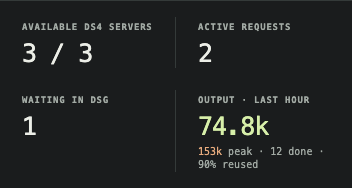
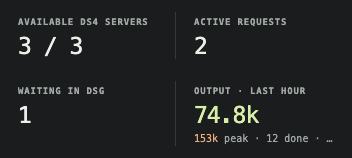
Compact fleet status and add Settings view

diff --git a/ds4-gateway/ui/index.html b/ds4-gateway/ui/index.html
@@ -4,7 +4,7 @@
 <link rel="stylesheet" href="/ui.css"><link rel="stylesheet" href="/brand.css"><script type="module" src="/ui.js"></script></head>
 <body><main>
 <header><a class="brand" href="/" aria-label="Dwarf Star Gate control room"><span class="brand-mark">[dsg]</span><span class="muted"> / control room</span></a><div class="header-right"><span id="connection" class="connection">Connecting</span><a class="button" href="/api/diagnostics" download>↓ Debug snapshot</a></div></header>
-<section class="intro"><img class="gate-art" src="/logo.png" width="148" height="111" alt="Dwarf Star Gate logo"><div class="intro-copy"><h1>Dwarf Star Gate</h1><p id="model" class="muted">DS4 gateway · reading live status</p><p class="engine-credit">Inference engine: <a href="https://github.com/antirez/ds4" target="_blank" rel="noopener noreferrer">DS4 by antirez</a>.</p></div><div class="read-only"><button id="server-settings" class="settings-button" type="button" title="Manage DS4 servers" aria-label="Manage DS4 servers" aria-controls="worker-management" aria-expanded="false" hidden><svg viewBox="0 0 24 24" aria-hidden="true"><path d="M9.6 2h4.8l.6 2.4 2.1 1.2 2.4-.7 2.4 4.2-1.8 1.7v2.4l1.8 1.7-2.4 4.2-2.4-.7-2.1 1.2-.6 2.4H9.6L9 19.6l-2.1-1.2-2.4.7-2.4-4.2 1.8-1.7v-2.4L2.1 9.1l2.4-4.2 2.4.7L9 4.4 9.6 2Zm2.4 6.5a3.5 3.5 0 1 0 0 7 3.5 3.5 0 0 0 0-7Z"/></svg></button><span id="control-mode">[ read only ]</span><br><small id="control-note">No model controls.</small></div></section>
+<section class="intro"><img class="gate-art" src="/logo.png" width="148" height="111" alt="Dwarf Star Gate logo"><div class="intro-copy"><h1>Dwarf Star Gate</h1><p id="model" class="muted">DS4 gateway · reading live status</p><p class="engine-credit">Inference engine: <a href="https://github.com/antirez/ds4" target="_blank" rel="noopener noreferrer">DS4 by antirez</a>.</p></div><div class="read-only"><span id="control-mode">[ read only ]</span><br><small id="control-note">No model controls.</small></div></section>
 <div id="warning" class="warning" role="status" hidden></div>
 <section id="health-wire" class="health-wire" aria-label="Gate Genie fleet health headlines" data-level="unknown">
 <div class="health-wire-window" tabindex="0" aria-label="Server health headlines; focus to pause scrolling" aria-live="off"><div id="health-wire-track" class="health-wire-track"><div id="health-wire-text" class="health-wire-group">Connecting to Gate Genie…</div><div id="health-wire-copy" class="health-wire-group" aria-hidden="true"></div></div></div>
@@ -16,6 +16,7 @@
 <button id="tab-genie" type="button" role="tab" aria-selected="false" aria-controls="view-genie" tabindex="-1" data-workspace-tab="genie">Gate Genie</button>
 <button id="tab-analytics" type="button" role="tab" aria-selected="false" aria-controls="view-analytics" tabindex="-1" data-workspace-tab="analytics">Analytics</button>
 <button id="tab-activity" type="button" role="tab" aria-selected="false" aria-controls="view-activity" tabindex="-1" data-workspace-tab="activity">Activity</button>
+<button id="tab-settings" class="settings-tab" type="button" role="tab" aria-selected="false" aria-controls="view-settings" tabindex="-1" data-workspace-tab="settings" hidden><svg viewBox="0 0 24 24" aria-hidden="true"><path d="M9.6 2h4.8l.6 2.4 2.1 1.2 2.4-.7 2.4 4.2-1.8 1.7v2.4l1.8 1.7-2.4 4.2-2.4-.7-2.1 1.2-.6 2.4H9.6L9 19.6l-2.1-1.2-2.4.7-2.4-4.2 1.8-1.7v-2.4L2.1 9.1l2.4-4.2 2.4.7L9 4.4 9.6 2Zm2.4 6.5a3.5 3.5 0 1 0 0 7 3.5 3.5 0 0 0 0-7Z"/></svg><span>Settings</span></button>
 </nav>
 <section id="view-fleet" class="workspace-view" role="tabpanel" aria-labelledby="tab-fleet" data-workspace-view="fleet">
 <section class="status-deck" aria-label="Fleet overview">
@@ -24,34 +25,6 @@
 <p id="fleet-summary" class="fleet-summary" role="status">Reading fleet state</p>
 </section>
 <div id="routing-summary" class="warning routing-summary" role="status" hidden></div>
-<details id="worker-management" class="worker-management worker-management-drawer" hidden><summary>Manage DS4 servers</summary>
-<p>Add an already-running DS4 server. Registration checks its model and context, then leaves it paused. Server context, cache slots and model settings are not changed.</p>
-<details id="spark-profile"><summary>Recommended DGX Spark configuration</summary><p>Experimental reference profile: Vision-Exp IQ2/Q2 with vision enabled, 262,144-token context, two hot sessions, one active request per Spark, a 349,525 MiB disk-KV budget and the full acceleration cache. Context includes prompt, reasoning and answer; disk retention is byte-based, not a fixed ten-slot guarantee.</p><p><a href="https://github.com/JordiPosthumus/dwarf-star-gate/blob/main/docs/recommended-spark-profile.md" target="_blank" rel="noopener noreferrer">Exact versions, launch command, validation procedure and known limits</a>. Remains our recommendation until explicitly superseded. This is guidance, not a reading of live settings; it does not change servers or apply to Macs.</p></details>
-<div id="worker-message" class="worker-message" role="status" aria-live="polite"></div>
-<form id="pool-context-form" class="worker-form" hidden>
-<label>Pool context limit (tokens)<input id="pool-context-input" name="context_length" type="number" min="1" step="1" required aria-describedby="pool-context-note"></label>
-<button class="button" type="submit">Apply pool limit</button>
-</form>
-<p id="pool-context-note" hidden>Checks every enabled server. Saved across gateway restarts and applied immediately; server settings and Pi are unchanged.</p>
-<form id="queue-timeout-form" class="worker-form" hidden>
-<label>Queue waiting allowance (hours)<input id="queue-timeout-input" type="number" min="1" step="1" required aria-describedby="queue-timeout-note"></label>
-<button class="button" type="submit">Save queue allowance</button>
-</form>
-<p id="queue-timeout-note" hidden><span id="queue-timeout-current"></span> Applies to newly arriving requests. Existing waits keep their admission-time deadline. Saved across restarts; no restart needed to change it. Active-generation timeout, DS4 and Pi settings are unchanged.</p>
-<div id="vision-protection-control" class="protection-control" hidden><div><strong>Image compatibility protection</strong><p id="vision-protection-status" class="muted">Checking availability</p></div><button id="vision-protection-toggle" class="button" type="button" disabled>Enable</button><p>After a proven pre-generation rejection, DSG gives the agent one compatible same-server recovery turn: it explains the exact image-limit or GIF problem and lets the agent choose what to do. DSG does not select frames or perform the task. Supported rejected JPEGs may be converted to PNG once; ambiguous failures are never replayed.</p></div>
-<div id="relocation-controls" hidden><strong>Safe queued handovers</strong><p class="muted">First DSG requests and unaffined work automatically take a newly free slot. Established sessions keep their warm home for the configured first-refusal window, then the gateway core may move the oldest continuity-safe queue head automatically. An exact offer here can move it sooner; destination cache locality may change.</p><div id="relocation-offers"></div></div>
-<div class="table-wrap"><table><thead><tr><th>DS4 server</th><th>Server context</th><th>Routing</th><th>Active / queued</th><th>Actions</th></tr></thead><tbody id="worker-rows"></tbody></table></div>
-<form id="worker-form" class="worker-form">
-<label>Server ID<input name="id" required maxlength="64" pattern="[a-zA-Z0-9][a-zA-Z0-9_-]*" placeholder="m2-max" autocomplete="off"></label>
-<label>Connection<select name="connection"><option value="local">Local server</option><option value="ssh">Remote server via SSH</option></select></label>
-<label><span id="endpoint-label">Local server URL</span><input name="url" type="url" required placeholder="http://127.0.0.1:8000" autocomplete="off"></label>
-<label id="ssh-host-field" hidden>SSH host / alias<input name="ssh" placeholder="ds4-worker" autocomplete="off" disabled></label>
-<label id="ssh-fallback-field" hidden>Fallback SSH aliases <span class="muted">(optional, comma-separated)</span><input name="ssh_fallbacks" placeholder="ds4-worker-lan, ds4-worker-tailnet" autocomplete="off" disabled></label>
-<label id="remote-port-field" hidden>Remote server port<input name="remote_port" type="number" min="1" max="65535" value="8000" disabled></label>
-<button class="button" type="submit">Check &amp; register</button>
-</form>
-<p>Remote connections use existing, host-key-verified SSH aliases and a free local tunnel port. Optional fallback aliases are tried in order when a route exits; DSG never accepts SSH options or shell commands here. Drain lets admitted requests finish. Remove is available only when paused and idle; it never stops the model server.</p>
-</details>
 <section class="section-heading"><h2>DS4 servers</h2><p>Decode + prefill, measured by each server</p></section><p id="routing-message" class="worker-message" role="status" aria-live="polite"></p><section id="devices" class="devices" aria-label="DS4 servers"><p class="muted">Reading server status. Engine timings appear when logs are available.</p></section>
 </section>
 <section id="view-genie" class="workspace-view" role="tabpanel" aria-labelledby="tab-genie" data-workspace-view="genie" hidden>
@@ -89,6 +62,22 @@
 <details class="cache-cost-panel"><summary>Client continuity · requests not dispatched</summary><p id="continuity-status" class="muted">Checking rejection evidence</p><div id="continuity-rejections"></div></details>
 <section class="section-heading activity-heading"><h2>Request log</h2><span><label>Show <select id="request-filter" title="Problems exclude completed and compatibility-guidance turns. Slow means over 5 minutes active or 1 minute queued."><option value="all">All recent</option><option value="problems">Problems only</option><option value="slow">Slow only</option></select></label> · no conversation text</span></section>
 <div class="table-wrap"><table><thead><tr><th>Time</th><th>DS4 server</th><th>Outcome</th><th>Elapsed</th><th>Queued</th><th>Prefix reused</th><th>Output tokens</th><th>Request</th></tr></thead><tbody id="requests"><tr><td colspan="8" class="muted">Waiting for request records</td></tr></tbody></table></div>
+</section>
+<section id="view-settings" class="workspace-view settings-view" role="tabpanel" aria-labelledby="tab-settings" data-workspace-view="settings" hidden>
+<section id="worker-management" class="worker-management" aria-labelledby="worker-management-title" hidden><h2 id="worker-management-title">Manage DS4 servers</h2>
+<p>Add an already-running DS4 server. Registration checks its model and context, then leaves it paused. Server context, cache slots and model settings are not changed.</p>
+<details id="spark-profile"><summary>Recommended DGX Spark configuration</summary><p>Experimental reference profile: Vision-Exp IQ2/Q2 with vision enabled, 262,144-token context, two hot sessions, one active request per Spark, a 349,525 MiB disk-KV budget and the full acceleration cache. Context includes prompt, reasoning and answer; disk retention is byte-based, not a fixed ten-slot guarantee.</p><p><a href="https://github.com/JordiPosthumus/dwarf-star-gate/blob/main/docs/recommended-spark-profile.md" target="_blank" rel="noopener noreferrer">Exact versions, launch command, validation procedure and known limits</a>. Remains our recommendation until explicitly superseded. This is guidance, not a reading of live settings; it does not change servers or apply to Macs.</p></details>
+<div id="worker-message" class="worker-message" role="status" aria-live="polite"></div>
+<form id="pool-context-form" class="worker-form" hidden><label>Pool context limit (tokens)<input id="pool-context-input" name="context_length" type="number" min="1" step="1" required aria-describedby="pool-context-note"></label><button class="button" type="submit">Apply pool limit</button></form>
+<p id="pool-context-note" hidden>Checks every enabled server. Saved across gateway restarts and applied immediately; server settings and Pi are unchanged.</p>
+<form id="queue-timeout-form" class="worker-form" hidden><label>Queue waiting allowance (hours)<input id="queue-timeout-input" type="number" min="1" step="1" required aria-describedby="queue-timeout-note"></label><button class="button" type="submit">Save queue allowance</button></form>
+<p id="queue-timeout-note" hidden><span id="queue-timeout-current"></span> Applies to newly arriving requests. Existing waits keep their admission-time deadline. Saved across restarts; no restart needed to change it. Active-generation timeout, DS4 and Pi settings are unchanged.</p>
+<div id="vision-protection-control" class="protection-control" hidden><div><strong>Image compatibility protection</strong><p id="vision-protection-status" class="muted">Checking availability</p></div><button id="vision-protection-toggle" class="button" type="button" disabled>Enable</button><p>After a proven pre-generation rejection, DSG gives the agent one compatible same-server recovery turn: it explains the exact image-limit or GIF problem and lets the agent choose what to do. DSG does not select frames or perform the task. Supported rejected JPEGs may be converted to PNG once; ambiguous failures are never replayed.</p></div>
+<div id="relocation-controls" hidden><strong>Safe queued handovers</strong><p class="muted">First DSG requests and unaffined work automatically take a newly free slot. Established sessions keep their warm home for the configured first-refusal window, then the gateway core may move the oldest continuity-safe queue head automatically. An exact offer here can move it sooner; destination cache locality may change.</p><div id="relocation-offers"></div></div>
+<div class="table-wrap"><table><thead><tr><th>DS4 server</th><th>Server context</th><th>Routing</th><th>Active / queued</th><th>Actions</th></tr></thead><tbody id="worker-rows"></tbody></table></div>
+<form id="worker-form" class="worker-form"><label>Server ID<input name="id" required maxlength="64" pattern="[a-zA-Z0-9][a-zA-Z0-9_-]*" placeholder="m2-max" autocomplete="off"></label><label>Connection<select name="connection"><option value="local">Local server</option><option value="ssh">Remote server via SSH</option></select></label><label><span id="endpoint-label">Local server URL</span><input name="url" type="url" required placeholder="http://127.0.0.1:8000" autocomplete="off"></label><label id="ssh-host-field" hidden>SSH host / alias<input name="ssh" placeholder="ds4-worker" autocomplete="off" disabled></label><label id="ssh-fallback-field" hidden>Fallback SSH aliases <span class="muted">(optional, comma-separated)</span><input name="ssh_fallbacks" placeholder="ds4-worker-lan, ds4-worker-tailnet" autocomplete="off" disabled></label><label id="remote-port-field" hidden>Remote server port<input name="remote_port" type="number" min="1" max="65535" value="8000" disabled></label><button class="button" type="submit">Check &amp; register</button></form>
+<p>Remote connections use existing, host-key-verified SSH aliases and a free local tunnel port. Optional fallback aliases are tried in order when a route exits; DSG never accepts SSH options or shell commands here. Drain lets admitted requests finish. Remove is available only when paused and idle; it never stops the model server.</p>
+</section>
 </section>
 <footer><p><span class="live-dot"></span> Local only · refreshes every 2s · no external assets</p><p id="updated">—</p></footer>
 <p class="upstream-credit">Original engine: <a href="https://github.com/antirez/ds4" target="_blank" rel="noopener noreferrer">antirez/ds4</a> by <a href="https://antirez.com/" target="_blank" rel="noopener noreferrer">Salvatore Sanfilippo</a> &amp; contributors. Thank you. <span>Independent companion; not an official release.</span></p>

diff --git a/ds4-gateway/ui/brand.css b/ds4-gateway/ui/brand.css
@@ -54,28 +54,26 @@ button:disabled{opacity:.4;cursor:default}input:focus-visible,select:focus-visib
 .routing-toggle:hover::after,.routing-toggle:focus-visible::after{opacity:1;visibility:visible;transform:translateY(0)}
 #routing-message:empty{display:none}
 
-/* Compact control-room hierarchy: one fleet panel, one obvious settings door. */
-.settings-button{display:inline-grid;place-items:center;width:42px;height:42px;margin-left:auto;padding:0;border:1px solid #526643;border-radius:6px;background:#202622;color:var(--accent);cursor:pointer}
-.settings-button[hidden]{display:none}.settings-button svg{width:22px;height:22px;fill:currentColor}.settings-button:hover{border-color:var(--accent);background:#253023}.settings-button:focus-visible{outline:2px solid var(--accent);outline-offset:3px}
-.status-deck{overflow:hidden;border:1px solid var(--line);border-radius:8px;background:var(--panel);margin-bottom:14px}
+/* Compact control-room hierarchy: one fleet band, with controls in a real tab. */
+.status-deck{display:grid;grid-template-columns:minmax(310px,1.15fr) minmax(0,3fr);overflow:hidden;border:1px solid var(--line);border-radius:8px;background:var(--panel);margin-bottom:14px}
 .genie-hardening{margin:0 0 14px;padding:0 18px;border:1px solid var(--line);border-radius:8px;background:var(--panel)}.genie-hardening>summary{display:flex;align-items:center;justify-content:space-between;gap:18px;padding:11px 0;font-weight:700;cursor:pointer}.genie-hardening>summary small{color:var(--muted);font-weight:500;text-align:right}.genie-hardening>p{margin:0 0 10px}.genie-hardening-item{padding:10px 0;border-top:1px solid var(--line)}.genie-hardening-item:first-child{border-top:0}.genie-hardening-item strong{display:block;margin-bottom:4px}.genie-hardening-item p{margin:3px 0;white-space:pre-wrap}.genie-hardening-meta{font-size:10px;color:var(--muted)}
 #health-wire{margin:0 0 10px;padding:0 22px;background:var(--panel)}
 #health-wire .health-wire-window{margin:0;min-height:44px;display:flex;align-items:center}
 #health-wire .health-wire-track{font-size:12px;line-height:1.5}#health-wire .health-wire-group{gap:6rem;padding-right:6rem}
 .workspace-tabs{position:sticky;top:0;z-index:15;display:flex;gap:3px;margin:0 0 14px;padding:5px;border:1px solid var(--line);border-radius:8px;background:var(--bg);background:color-mix(in srgb,var(--bg) 92%,transparent);box-shadow:0 10px 24px #0004;backdrop-filter:blur(12px)}
-.workspace-tabs button{min-width:0;padding:9px 16px;border:0;border-radius:5px;background:transparent;color:var(--muted);font:inherit;font-size:11px;font-weight:650;cursor:pointer}.workspace-tabs button:hover{color:var(--text);background:#202523}.workspace-tabs button[aria-selected="true"]{color:var(--accent);background:#253023;box-shadow:inset 0 0 0 1px #526643}.workspace-tabs button:focus-visible{outline:2px solid var(--accent);outline-offset:2px}.workspace-view{min-width:0}.workspace-view[hidden]{display:none}.genie-insights,.analytics-insights{grid-template-columns:1fr}.analytics-insights{margin-top:0}.analytics-insights article{padding:16px 20px}
-.status-deck .capacity-panel{display:grid;grid-template-columns:minmax(400px,auto) minmax(180px,1fr) auto;align-items:center;gap:18px;border:0;border-bottom:1px solid var(--line);border-radius:0;margin:0;padding:12px 22px;background:transparent}
-.status-deck .capacity-panel>div{gap:12px}.status-deck .capacity-panel strong{font-size:19px}.status-deck .capacity-panel progress{width:100%;height:7px;margin:0}.status-deck .capacity-panel small{max-width:420px;line-height:1.45;text-align:right;color:var(--muted)}
-.status-deck .overview{border:0;border-radius:0;background:transparent;padding:16px 0}.status-deck .overview>div{padding:0 22px}.status-deck .overview strong{font-size:25px;margin-top:6px}
-.status-deck .fleet-summary{border-top:1px solid var(--line);margin:0;padding:9px 22px 10px}
-.worker-management-drawer:not([open]){display:none}.worker-management-drawer[open]{display:block}.worker-management-drawer>summary{font-size:14px;font-weight:650}.worker-management-drawer #spark-profile{max-width:none;margin:12px 0 16px;padding:11px 13px;border:1px solid var(--line);border-radius:5px;background:var(--bg)}
+.workspace-tabs button{min-width:0;padding:9px 16px;border:0;border-radius:5px;background:transparent;color:var(--muted);font:inherit;font-size:11px;font-weight:650;cursor:pointer}.workspace-tabs button:hover{color:var(--text);background:#202523}.workspace-tabs button[aria-selected="true"]{color:var(--accent);background:#253023;box-shadow:inset 0 0 0 1px #526643}.workspace-tabs button:focus-visible{outline:2px solid var(--accent);outline-offset:2px}.workspace-tabs .settings-tab{display:inline-flex;align-items:center;gap:7px;margin-left:auto}.workspace-tabs .settings-tab[hidden]{display:none}.settings-tab svg{width:14px;height:14px;fill:currentColor}.workspace-view{min-width:0}.workspace-view[hidden]{display:none}.genie-insights,.analytics-insights{grid-template-columns:1fr}.analytics-insights{margin-top:0}.analytics-insights article{padding:16px 20px}
+.status-deck .capacity-panel{display:grid;grid-template-columns:minmax(190px,1fr) minmax(80px,120px);align-items:center;gap:7px 14px;border:0;border-right:1px solid var(--line);border-radius:0;margin:0;padding:12px 20px;background:transparent}
+.status-deck .capacity-panel>div{gap:10px;min-width:0}.status-deck .capacity-panel strong{font-size:19px}.status-deck .capacity-panel .muted{font-size:10px;white-space:nowrap;overflow:hidden;text-overflow:ellipsis}.status-deck .capacity-panel progress{width:100%;height:7px;margin:0}.status-deck .capacity-panel small{grid-column:1/-1;min-width:0;line-height:1.35;text-align:left;color:var(--muted);white-space:nowrap;overflow:hidden;text-overflow:ellipsis}
+.status-deck .overview{border:0;border-radius:0;background:transparent;padding:12px 0}.status-deck .overview>div{padding:0 18px}.status-deck .overview strong{font-size:23px;margin-top:5px}.status-deck .throughput-summary small{white-space:nowrap;overflow:hidden;text-overflow:ellipsis}
+.status-deck .fleet-summary{grid-column:1/-1;border-top:1px solid var(--line);margin:0;padding:7px 20px 8px;white-space:nowrap;overflow:hidden;text-overflow:ellipsis}
+.settings-view .worker-management{margin-top:0}.settings-view .worker-management>h2{margin:0 0 12px;font-size:15px}.settings-view #spark-profile{max-width:none;margin:12px 0 16px;padding:11px 13px;border:1px solid var(--line);border-radius:5px;background:var(--bg)}
 
 /* Keep the ETA out of the metric flow; align both charts on every card. */
 .device-identity{display:flex;align-items:center;justify-content:space-between;gap:10px;min-width:0}.remaining-estimate{display:inline-flex;align-items:center;min-height:25px;padding:4px 7px;border:1px solid #526643;border-radius:4px;color:var(--accent);font-size:9px;white-space:nowrap;font-variant-numeric:tabular-nums;flex:0 0 auto}.remaining-estimate.stale{color:var(--muted);border-color:var(--line)}
 .requested-thinking{min-height:47px}.metrics{align-items:start}.metric-block{display:grid;grid-template-rows:auto auto 18px 64px auto;min-width:0}.metric-block .rate{margin:6px 0 2px}.metric-block .metric-note{align-self:center;white-space:nowrap;overflow:hidden;text-overflow:ellipsis}
 .chart{height:64px;margin:5px 0 0;border-radius:4px;background:linear-gradient(180deg,#202523 0%,#181b1a 100%)}.chart polyline{stroke-width:2.2;stroke-linecap:round;stroke-linejoin:round}.chart .chart-grid{stroke:#3b423f;stroke-width:.55;stroke-dasharray:3 5}.chart .chart-baseline{stroke:#4a524e;stroke-width:.8}.chart .chart-point,.chart .chart-last{fill:var(--accent);stroke:var(--panel);stroke-width:1.2;vector-effect:non-scaling-stroke}.chart.prefill .chart-point,.chart.prefill .chart-last{fill:var(--orange)}.chart-caption{margin:5px 0 0;white-space:nowrap}
 .device-evidence{max-width:none;margin:15px 0 0;padding-top:11px;border-top:1px solid var(--line);font-size:9px}.device-evidence summary{display:flex;justify-content:space-between;gap:12px;color:var(--muted);list-style-position:inside}.device-evidence summary span:last-child{text-align:right;overflow:hidden;text-overflow:ellipsis;white-space:nowrap}.device-evidence[open] summary{margin-bottom:12px;color:var(--text)}.device-evidence .prompt-note{margin-bottom:10px}.device-evidence .cache{padding:12px 0}.device-evidence .cache-note{margin-bottom:10px}.device-evidence .device-foot{padding-top:10px}
-@media(max-width:900px){.status-deck .capacity-panel{grid-template-columns:1fr}.status-deck .capacity-panel small{text-align:left;max-width:none}}
+@media(max-width:1000px){.status-deck{grid-template-columns:1fr}.status-deck .capacity-panel{grid-template-columns:minmax(240px,auto) minmax(120px,1fr) auto;border-right:0;border-bottom:1px solid var(--line)}.status-deck .capacity-panel small{grid-column:auto;text-align:right}.status-deck .fleet-summary{grid-column:1}}
 @media(max-width:750px){.status-deck .overview{grid-template-columns:repeat(2,1fr)}.status-deck .overview>div:nth-child(2){border-right:0}.status-deck .capacity-panel,.status-deck .fleet-summary,#health-wire{padding-left:16px;padding-right:16px}.workspace-tabs{overflow-x:auto;scrollbar-width:none}.workspace-tabs::-webkit-scrollbar{display:none}.workspace-tabs button{flex:1 0 auto;padding-inline:13px}.device-evidence summary span:last-child{display:none}}
 @media(max-width:750px){.genie-hardening>summary{align-items:flex-start;flex-direction:column;gap:3px}.genie-hardening>summary small{text-align:left}}
-@media(max-width:750px){.read-only.controls-available{display:block}}
+@media(max-width:620px){.status-deck .capacity-panel{grid-template-columns:1fr}.status-deck .capacity-panel small{grid-column:1;text-align:left}.status-deck .fleet-summary{white-space:normal}}

diff --git a/ds4-gateway/ui/ui.js b/ds4-gateway/ui/ui.js
@@ -392,13 +392,16 @@ function render(s) {
   $('dataset-status').textContent=stale?'Collector status stale':!ds?.enabled?'Collector not enabled':ds.error||'Collecting routing evidence';
   $('dataset-detail').textContent=ds?`${fmt(ds.written)} events saved this gateway run · ${fmt(ds.bytes/1048576)} MiB stored · ${fmt(ds.pending)} pending · ${fmt(ds.dropped)} dropped · ${fmt(ds.finished)} finishes (${fmt(ds.missing_usage)} missing usage, ${fmt(ds.truncated)} output-limited, ${fmt(ds.failed_or_cancelled)} failed/cancelled) · last write ${age(ds.last_write,now)}`:'Existing engine metrics are separate from the new request dataset.';
   $('worker-management').hidden = !s.worker_management;
-  $('server-settings').hidden=!s.worker_management;
-  $('server-settings').closest('.read-only')?.classList.toggle('controls-available',!!s.worker_management);
+  $('tab-settings').hidden=!s.worker_management;
+  $('control-mode').closest('.read-only').hidden=!!s.worker_management;
   $('control-mode').hidden=!!s.worker_management;
   $('control-mode').textContent='[ read only ]';
   $('control-note').hidden=!!s.worker_management;
   $('control-note').textContent = 'No model controls.';
-  if(s.worker_management) { wireWorkerControls(); void loadWorkers(); }
+  if(s.worker_management) {
+    if(globalThis.location?.hash==='#settings'&&currentWorkspace!=='settings')activateWorkspaceTab('settings');
+    wireWorkerControls(); void loadWorkers();
+  } else if(currentWorkspace==='settings')activateWorkspaceTab('fleet',{updateHash:true});
   renderRequests(s.events);
   $('updated').textContent = `Gateway checked ${s.gateway_at ? clock(s.gateway_at) : '—'} · dashboard started ${clock(s.started)}`;
 }
@@ -583,9 +586,11 @@ function renderGenieReports(reports = []) {
     if (!keep.has(node.dataset.reportId) && !node.open && !node.contains(document.activeElement)) node.remove();
   }
 }
-const workspaceNames=['fleet','genie','analytics','activity'];
+const workspaceNames=['fleet','genie','analytics','activity','settings'];
+let currentWorkspace='fleet';
 function activateWorkspaceTab(requested,{focus=false,updateHash=false}={}) {
   const name=workspaceNames.includes(requested)?requested:'fleet';
+  currentWorkspace=name;
   for(const button of document.querySelectorAll('[data-workspace-tab]')){
     const selected=button.dataset.workspaceTab===name;
     button.setAttribute('aria-selected',String(selected));button.tabIndex=selected?0:-1;
@@ -598,10 +603,11 @@ function activateWorkspaceTab(requested,{focus=false,updateHash=false}={}) {
   return name;
 }
 function setupWorkspaceTabs(){
-  const list=document.querySelector('.workspace-tabs'),buttons=[...list.querySelectorAll('[data-workspace-tab]')];
+  const list=document.querySelector('.workspace-tabs');
   activateWorkspaceTab(globalThis.location?.hash?.slice(1));
   list.addEventListener('click',event=>{const button=event.target.closest('[data-workspace-tab]');if(button)activateWorkspaceTab(button.dataset.workspaceTab,{updateHash:true});});
   list.addEventListener('keydown',event=>{
+    const buttons=[...list.querySelectorAll('[data-workspace-tab]:not([hidden])')];
     const current=buttons.indexOf(event.target.closest('[data-workspace-tab]'));if(current<0)return;
     const next=event.key==='Home'?0:event.key==='End'?buttons.length-1:event.key==='ArrowRight'||event.key==='ArrowDown'?(current+1)%buttons.length:event.key==='ArrowLeft'||event.key==='ArrowUp'?(current+buttons.length-1)%buttons.length:null;
     if(next===null)return;event.preventDefault();activateWorkspaceTab(buttons[next].dataset.workspaceTab,{focus:true,updateHash:true});
@@ -611,9 +617,7 @@ function setupWorkspaceTabs(){
 poll();
 setupWorkspaceTabs();
 $('request-filter').addEventListener('change',()=>{requestFilter=$('request-filter').value;renderRequests(wireSnapshot?.events??[]);});
-function openServerSettings({focus=false}={}){activateWorkspaceTab('fleet',{updateHash:true});const panel=$('worker-management');panel.open=true;$('server-settings').setAttribute('aria-expanded','true');panel.scrollIntoView({behavior:'smooth',block:'start'});if(focus)panel.querySelector('input[name="id"]')?.focus({preventScroll:true});}
-$('server-settings').addEventListener('click',()=>{const panel=$('worker-management'),visible=!$('view-fleet').hidden;if(visible&&panel.open){panel.open=false;$('server-settings').setAttribute('aria-expanded','false');}else openServerSettings();});
-$('worker-management').addEventListener('toggle',()=>{$('server-settings').setAttribute('aria-expanded',String($('worker-management').open));});
+function openServerSettings({focus=false}={}){activateWorkspaceTab('settings',{updateHash:true});const panel=$('worker-management');panel.scrollIntoView({behavior:'smooth',block:'start'});if(focus)panel.querySelector('input[name="id"]')?.focus({preventScroll:true});}
 $('devices').addEventListener('click',event=>{if(!event.target.closest('[data-add-first]'))return;openServerSettings({focus:true});});
 $('analytics-metric').addEventListener('change',renderAnalytics);
 $('analytics-worker').addEventListener('change',renderAnalytics);

diff --git a/CHANGELOG.md b/CHANGELOG.md
@@ -1,5 +1,18 @@
 # Changelog
 
+## Denser fleet summary and dedicated Settings view
+
+- Collapsed serving capacity, server availability, active/waiting work and recent
+  output into one desktop status band with one bounded evidence line. The same
+  live values and honest DSG-only queue scope remain; this is a layout change.
+- Moved server enrollment, queue/context controls, image protection, queued
+  handovers and the pinned Spark reference profile out of Fleet into a far-right
+  Settings tab. The tab appears only when the dashboard has local management
+  authority; read-only dashboards keep their explicit read-only label.
+- Added Settings to keyboard navigation and stable URL hashes, while preserving
+  unsaved control edits across polling and leaving routing, recovery permissions,
+  model servers and DS4 settings unchanged.
+
 ## Responsive server-card headers and incomplete-stream evidence
 
 - Server-card headers now use a card-width-aware two-tier layout at ordinary
@@ -18,14 +31,14 @@
 
 ## Focused dashboard views
 
-- Replaced the increasingly long single dashboard flow with four persistent,
-  accessible views: Fleet, Gate Genie, Analytics and Activity. Fleet remains the
+- Replaced the increasingly long single dashboard flow with persistent,
+  accessible Fleet, Gate Genie, Analytics and Activity views. Fleet remains the
   default; the compact health wire, hardening notices and dismissible learning
   milestones remain global so changing views cannot hide urgent evidence.
 - Added roving keyboard focus, Arrow/Home/End navigation and stable URL hashes.
   Hidden views continue receiving the same polling data, so switching views does
-  not reset reports, selected predictors or request evidence. The settings gear
-  always returns to Fleet before opening server controls.
+  not reset reports, selected predictors or request evidence. Server controls
+  have since moved from the original settings gear into their own fifth view.
 - Split the public synthetic browser captures by view and extended the browser
   check across tab state, polling, settings, desktop and mobile layouts. This is
   presentation-only; gateway routing, recovery permissions and DS4 settings are

diff --git a/docs/screenshots.md b/docs/screenshots.md
@@ -5,13 +5,13 @@ These are actual browser captures of fictional data, not edited production
 screenshots, benchmark results, a live incident report or a promoted model.
 
 - `dashboard-overview.png`: branding, persistent health wire, compact cross-view
-  hardening notice, focused navigation, the unified fleet panel, mixed-server
+  hardening notice, focused navigation, the single-row desktop fleet band, mixed-server
   activity, aligned rounded speeds, requested thinking, hourly fleet throughput
   and the ready Continuity Door
   contract. Detailed cache/session evidence is folded into each server card.
 - `overview-mobile.png`: the compact status row at 390px, including hourly output,
   peak, completed requests and prompt reuse.
-- `worker-management.png`: the gear-opened private fleet controls, recommended
+- `worker-management.png`: the capability-gated Settings view, recommended
   Spark profile, 20,000-hour queue allowance and one synthetic exact
   queued-handover offer with its cache-locality warning.
 - `dashboard-genie.png`: an open assessment, recovery controls and the private
@@ -53,7 +53,7 @@ test directory. It never reads or modifies the deployed notebook.
 
 The capture uses 1440px width, UTC, en-US and reduced motion so headlines are
 readable. It checks the real logo, exact title, accessible tab and keyboard state,
-populated cards, no activated
+the far-right Settings tab, a fleet band under 150px tall, populated cards, no activated
 predictor, synthetic labels even when selecting XGB, report persistence across
 a real refresh, and a 390px mobile viewport without page-level horizontal overflow.
 Timestamps and platform fonts may differ; this is a content/privacy smoke test,

diff --git a/WORKLOG.md b/WORKLOG.md
@@ -21,11 +21,13 @@ For unfinished work, see the [roadmap](docs/roadmap.md).
   card widths. A narrow-viewport browser assertion prevents controls escaping the
   card, and the public synthetic screenshots were refreshed.
 
-- **Split the growing control room into four focused views.** Fleet remains the
-  default; Gate Genie, Analytics and Activity each get a stable tab while the
-  health wire and important notices stay visible everywhere. Keyboard navigation,
-  URL hashes, live polling state, mobile overflow and the settings-gear handoff are browser-tested,
-  with fresh synthetic screenshots and no change to routing or model servers.
+- **Split the growing control room into five focused views.** Fleet remains the
+  default; Gate Genie, Analytics, Activity and capability-gated Settings each get
+  a stable tab while the health wire and important notices stay visible everywhere.
+  The fleet summary is now one dense status band, and enrollment/configuration no
+  longer pushes live server cards down the Fleet view. Keyboard navigation, URL
+  hashes, polling state and mobile overflow are browser-tested, with no change to
+  routing or model servers.
 
 - **Restored a trustworthy cross-platform CI signal.** Launchd recovery tests
   now preserve the runner's real file-owner identity while checking the exact

diff --git a/README.md b/README.md
@@ -205,10 +205,12 @@ the encoder runs only when explicitly configured, without cloud inference.
 ## Dashboard
 
 Terminal-inspired presentation, per-worker measurements, and a replaceable logo.
-Four focused views keep the control room compact: **Fleet** for live capacity and
+Five focused views keep the control room compact: **Fleet** for live capacity and
 server cards, **Gate Genie** for reports and recovery, **Analytics** for evidence
-and predictors, and **Activity** for continuity and request history. The health
-wire remains visible above every view so a focused page does not hide an incident.
+and predictors, **Activity** for continuity and request history, and a far-right
+**Settings** tab for server enrollment and gateway controls. Settings appears only
+when this dashboard has the local management capability. The health wire remains
+visible above every view so a focused page does not hide an incident.
 These captures show the current interface with **synthetic demo data**, not live
 sessions, measured benchmarks or proof of model accuracy. The example fleet mixes
 Sparks and a Mac; all displayed servers, reports and predictions are fictional.
